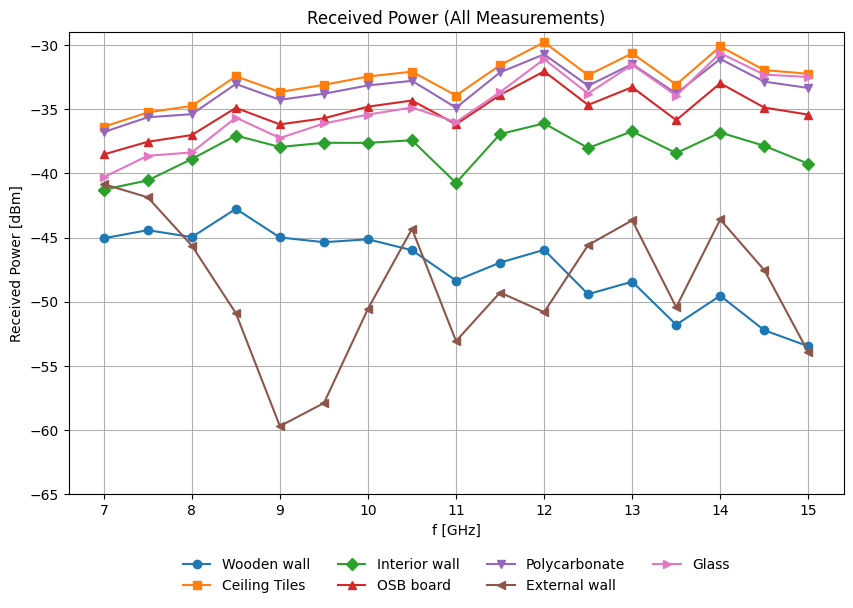
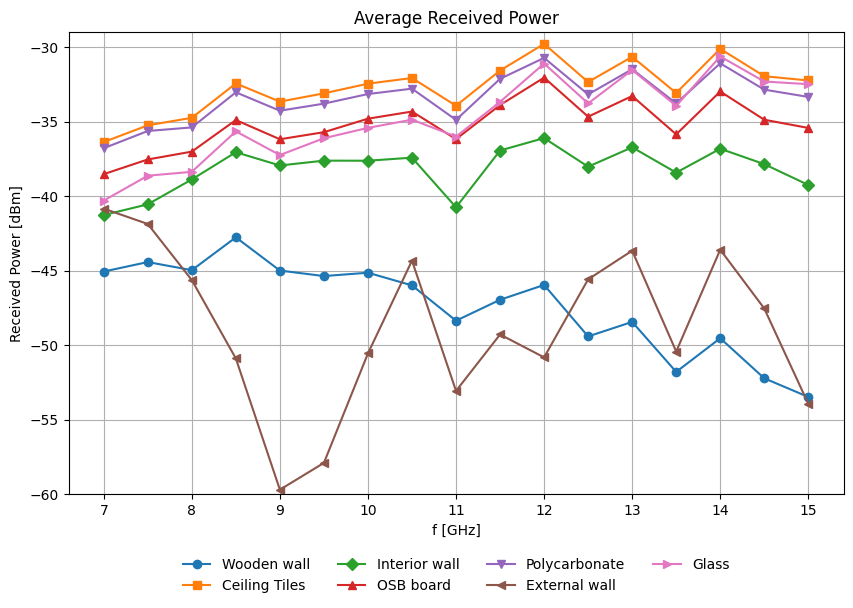
add plot_mean_FSL

diff --git a/plot_mean_FSL.py b/plot_mean_FSL.py
@@ -1,0 +1,56 @@
+import os
+import pandas as pd
+import matplotlib.pyplot as plt
+
+# Ścieżki do pliku CSV
+input_folder = "edit_files/Measurement Campaigns/mean_files"
+output_folder = "edit_files/Measurement Campaigns/plots/FSL"
+input_file = os.path.join(input_folder, "mean_avg_REFERENCYJNY.CSV")
+
+# Sprawdzenie folderu wejściowego
+if not os.path.exists(input_folder):
+    print(f"Folder wejściowy '{input_folder}' nie istnieje!")
+    exit()
+else:
+    print(f"Folder wejściowy '{input_folder}' istnieje i jest dostępny.")
+    print("Pliki w folderze:")
+    files = os.listdir(input_folder)
+    print(files)
+    print()  # Pusta linia przed folderem wyjściowym
+
+# Sprawdzenie folderu wyjściowego
+if not os.path.exists(output_folder):
+    print(f"Folder wyjściowy '{output_folder}' nie istnieje! Tworzenie folderu...")
+    os.makedirs(output_folder)
+    print(f"Folder '{output_folder}' został utworzony.")
+else:
+    print(f"Folder wyjściowy '{output_folder}' istnieje i jest dostępny.\n")
+
+# Wczytanie danych z pliku CSV
+print(f"Wczytuję dane z pliku: {input_file}")
+try:
+    data = pd.read_csv(input_file, header=None, sep=";", names=["Frequency", "Power"])
+    print("Dane wczytano pomyślnie.\n")
+except Exception as e:
+    print(f"Błąd podczas wczytywania pliku: {e}")
+    exit()
+
+# Zakres osi Y
+y_min, y_max = -38, -28
+
+# Tworzenie wykresu
+print("Tworzę wykres FSL dla mean_avg_REFERENCYJNY")
+plt.figure(figsize=(10, 6))
+plt.plot(data["Frequency"], data["Power"], marker='o', color="#1f77b4", label="FSL")
+plt.title("Average Free-Space Loss")
+plt.xlabel("f [GHz]")
+plt.ylabel("Received Power [dBm]")
+plt.ylim(y_min, y_max)  # Ustalony zakres osi Y
+plt.yticks(range(y_min, y_max + 1, 1))  # Podziałka co 1 na osi Y
+plt.grid(True)
+plt.legend(loc='upper left')  # Legenda w lewym górnym rogu
+plt.savefig(os.path.join(output_folder, "mean_avg_REFERENCYJNY.png"))
+plt.close()
+print("Wykres mean_avg_REFERENCYJNY zapisano.\n")
+
+print("Proces generowania wykresu zakończony.")

diff --git a/plot_mean_materials.py b/plot_mean_materials.py
@@ -49,8 +49,8 @@ all_files = [f for f in files if f.startswith("mean_avg") and all(x not in f for
 excluded_files = [f for f in files if f.startswith("mean_avg") and any(x in f for x in ["MIEDZ", "ZESPOLONA"])]
 
 # Zakresy osi Y
-y_min, y_max = -65, -29  # Dla podstawowych
-excluded_y_min, excluded_y_max = -105, -70  # Dla wykluczonych
+y_min, y_max = -60, -29  # Dla podstawowych
+excluded_y_min, excluded_y_max = -100, -75  # Dla wykluczonych
 
 # Funkcja do rysowania wykresów
 def draw_plot(files, title, filename, y_min, y_max):
@@ -95,7 +95,7 @@ def draw_plot(files, title, filename, y_min, y_max):
 
 # Generowanie wykresów
 print("Tworzę wykresy...")
-draw_plot(all_files, "Received Power (All Measurements)", "all_measurements.png", y_min, y_max)
-draw_plot(excluded_files, "Received Power (Excluded Measurements)", "excluded_measurements.png", excluded_y_min, excluded_y_max)
+draw_plot(all_files, "Average Received Power", "all_measurements.png", y_min, y_max)
+draw_plot(excluded_files, "Average Received Power", "excluded_measurements.png", excluded_y_min, excluded_y_max)
 
 print("Proces generowania wykresów zakończony.")
